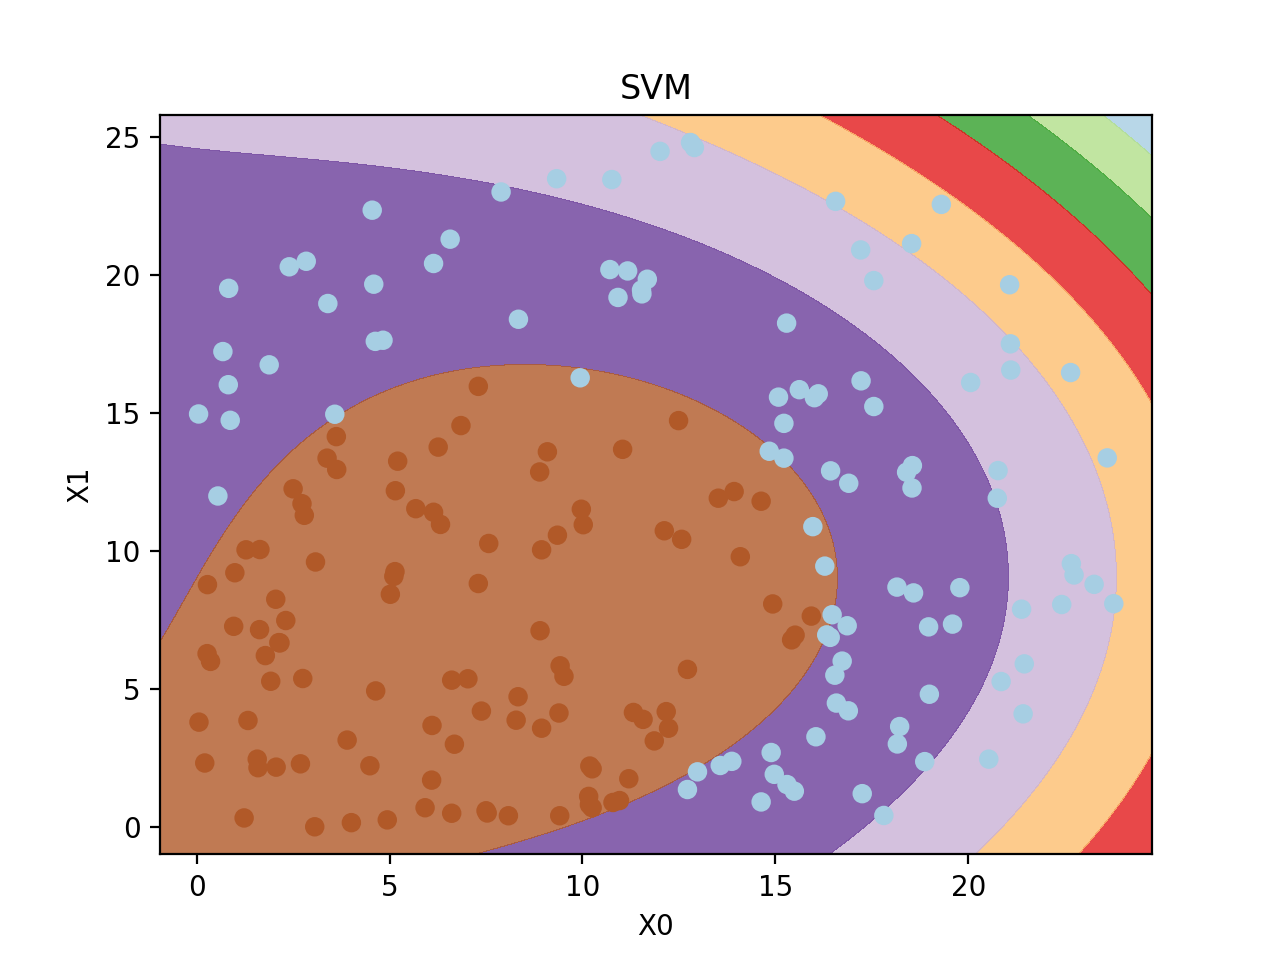
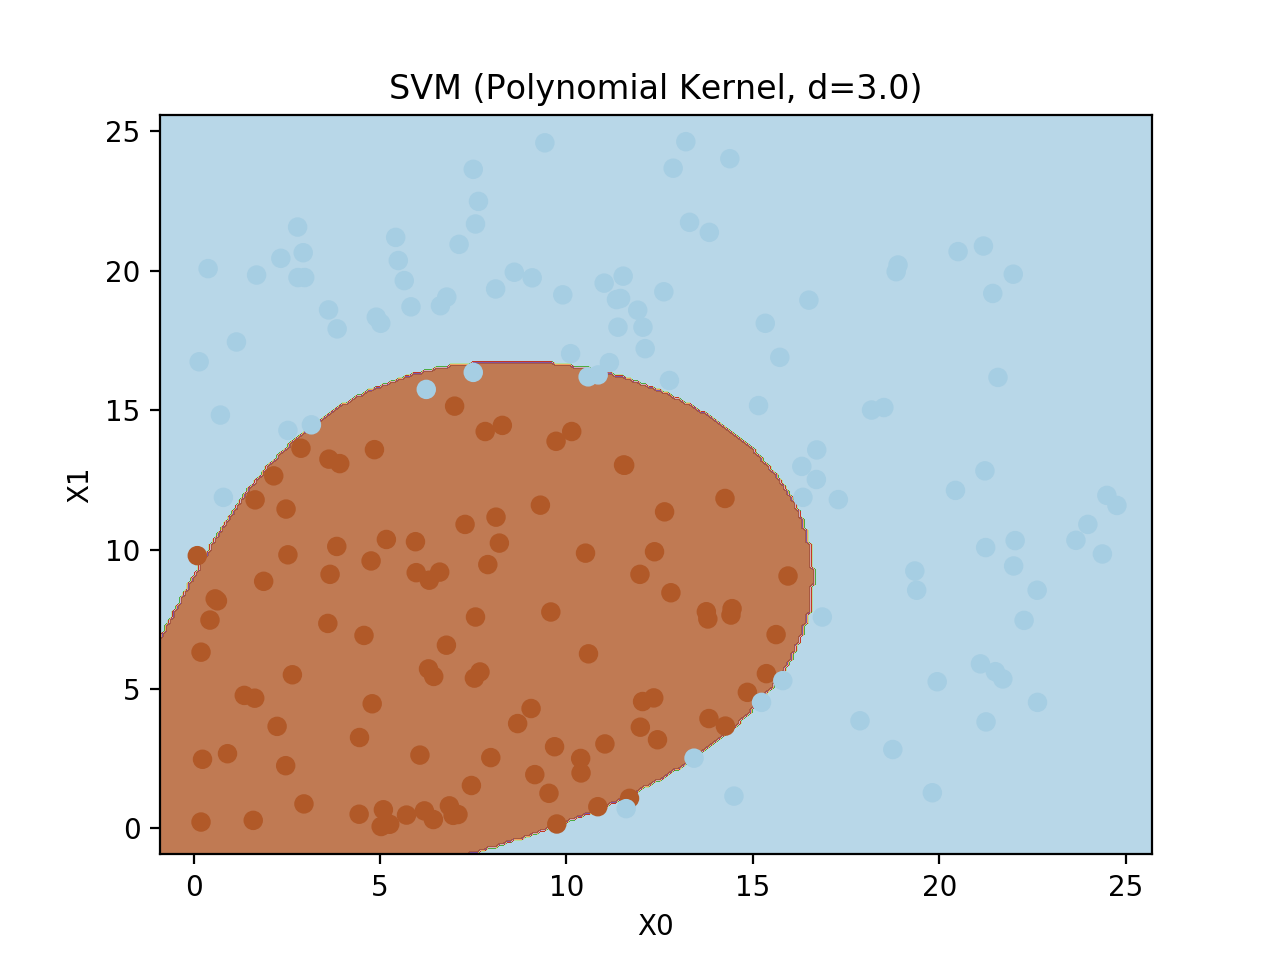
update pictures
set smaller h

diff --git a/SVM/svm.py b/SVM/svm.py
@@ -73,7 +73,6 @@ def calcu_kernel_matrix(X,kTup):
 
 #计算k(Xi,Xj)的值
 def k(Xi,Xj,kTup): #2 columns
-    #print(kTup[0])
     if kTup[0]=='linear':
         value=np.dot(Xi,Xj)
     if kTup[0]=='poly':
@@ -205,9 +204,9 @@ class SVM():
         return z, predict
 
 #画出SVM模型测试结果
-def svmPlt(x_test,y_test, svm):
+def svmPlt(x_test,y_test, svm, title):
     X_set, y_set = x_test, t_test
-    h=0.01
+    h=0.1
     x_min, x_max = X_set[:, 0].min() - 1, X_set[:, 0].max() + 1
     y_min, y_max = X_set[:, 1].min() - 1, X_set[:, 1].max() + 1
     xx, yy = np.meshgrid(np.arange(x_min,x_max,h),np.arange(y_min,y_max,h))
@@ -222,13 +221,13 @@ def svmPlt(x_test,y_test, svm):
     print("Plting data time used:",elapsed)
 
     Z_set=Z_pred.reshape(xx.shape)
-    plt.contourf(xx,yy,Z_set,cmap=ListedColormap(('red', 'green')),alpha=0.8)
-    plt.scatter(X_set[:,0],X_set[:,1],c=y_set,cmap=ListedColormap(('orange', 'blue')))
+    plt.contourf(xx,yy,Z_set,cmap=plt.cm.Paired,alpha=0.8)
+    plt.scatter(X_set[:,0],X_set[:,1],c=y_set,cmap=plt.cm.Paired)
     plt.xlabel('X0')
     plt.ylabel('X1')
     plt.xlim(xx.min(),xx.max())
     plt.ylim(yy.min(),yy.max())
-    plt.title('SVM Train')
+    plt.title(title)
 
     plt.show()
 
@@ -314,27 +313,26 @@ def linearPlotData(x,axes=None):
     
 if __name__ == '__main__':
     # 载入数据，实际实用时将x替换为具体名称
-    #train_file='data/train_kernel.txt'
-    #test_file='data/test_kernel.txt'
+    train_file='data/train_kernel.txt'
+    test_file='data/test_kernel.txt'
 
-    train_file = 'data/train_linear.txt'
-    test_file = 'data/test_linear.txt'
+    #train_file = 'data/train_linear.txt'
+    #test_file = 'data/test_linear.txt'
 
     #data_train_kernel=load_data(train_file_kernel)
     #data_test_kernel=load_data(test_file_kernel)
 
     data_train = load_data(train_file)  # 数据格式[x1, x2, t]
     data_test = load_data(test_file)
-
     
     # 使用训练集训练SVM模型
-    """
-    svm = SVM(data_train, ('poly',3))  # 初始化模型
+    
+    svm = SVM(data_train, ('poly',2.0))  # 初始化模型
     #svm.train_kernel(data_train_kernel)
     
     start=time.clock() # 开始计算训练模型耗费时间
 
-    svm.train(data_train)  # 训练模型
+    svm.train(data_test)  # 训练模型
 
     elapsed=(time.clock()-start) #结束计时
     print("Model training time used:",elapsed)
@@ -358,12 +356,12 @@ if __name__ == '__main__':
     print("SVM train accuracy: {:.1f}%".format(acc_train * 100))
     print("SVM test accuracy: {:.1f}%".format(acc_test * 100))
 
-    svmPlt(x_test,t_test,svm)
-    """
+    svmPlt(x_test,t_test,svm,title='SVM (Polynomial Kernel, d=1)')
+    
     # 使用训练集训练SVM模型 end
 
     #使用训练集训练logistic regression模型
-    
+    """
     x_train = data_train[:, :2]  # feature [x1, x2]
     y_train = data_train[:, 2]  # 真实标签
 
@@ -400,7 +398,7 @@ if __name__ == '__main__':
     plt.ylim(yy.min(),yy.max())
     plt.title('SVM (Hinge Loss)')
     plt.show()
-    
+    """
     #使用训练集训练logistic regression模型
 
 
